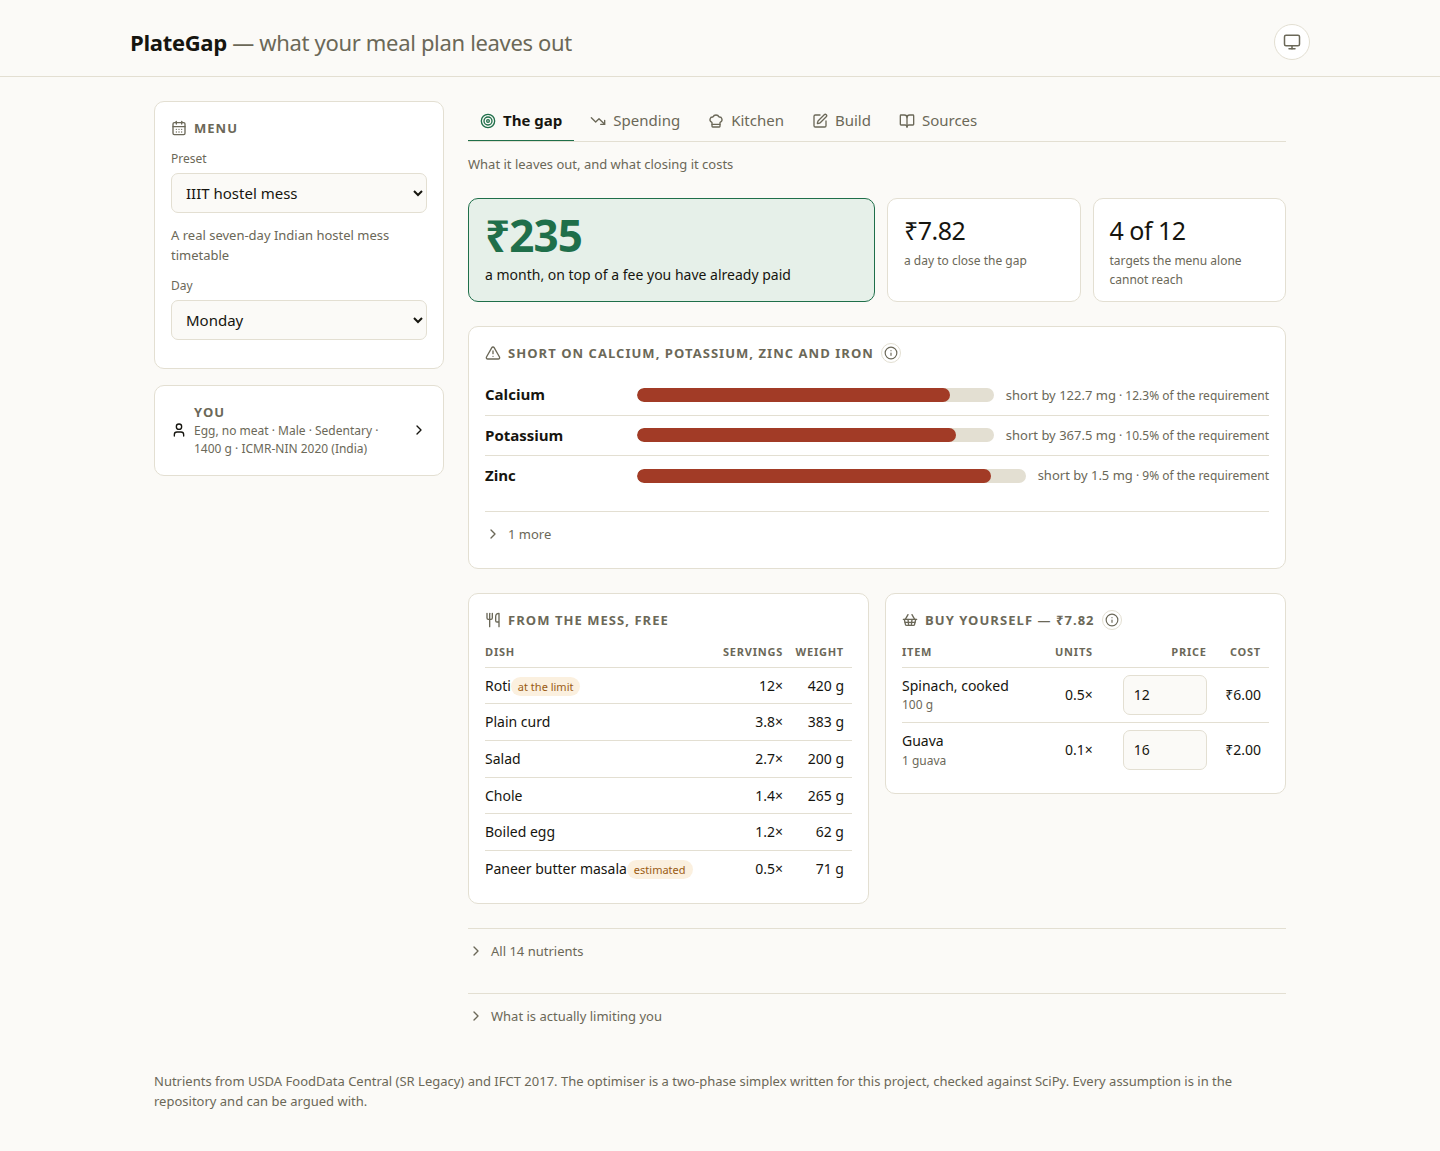
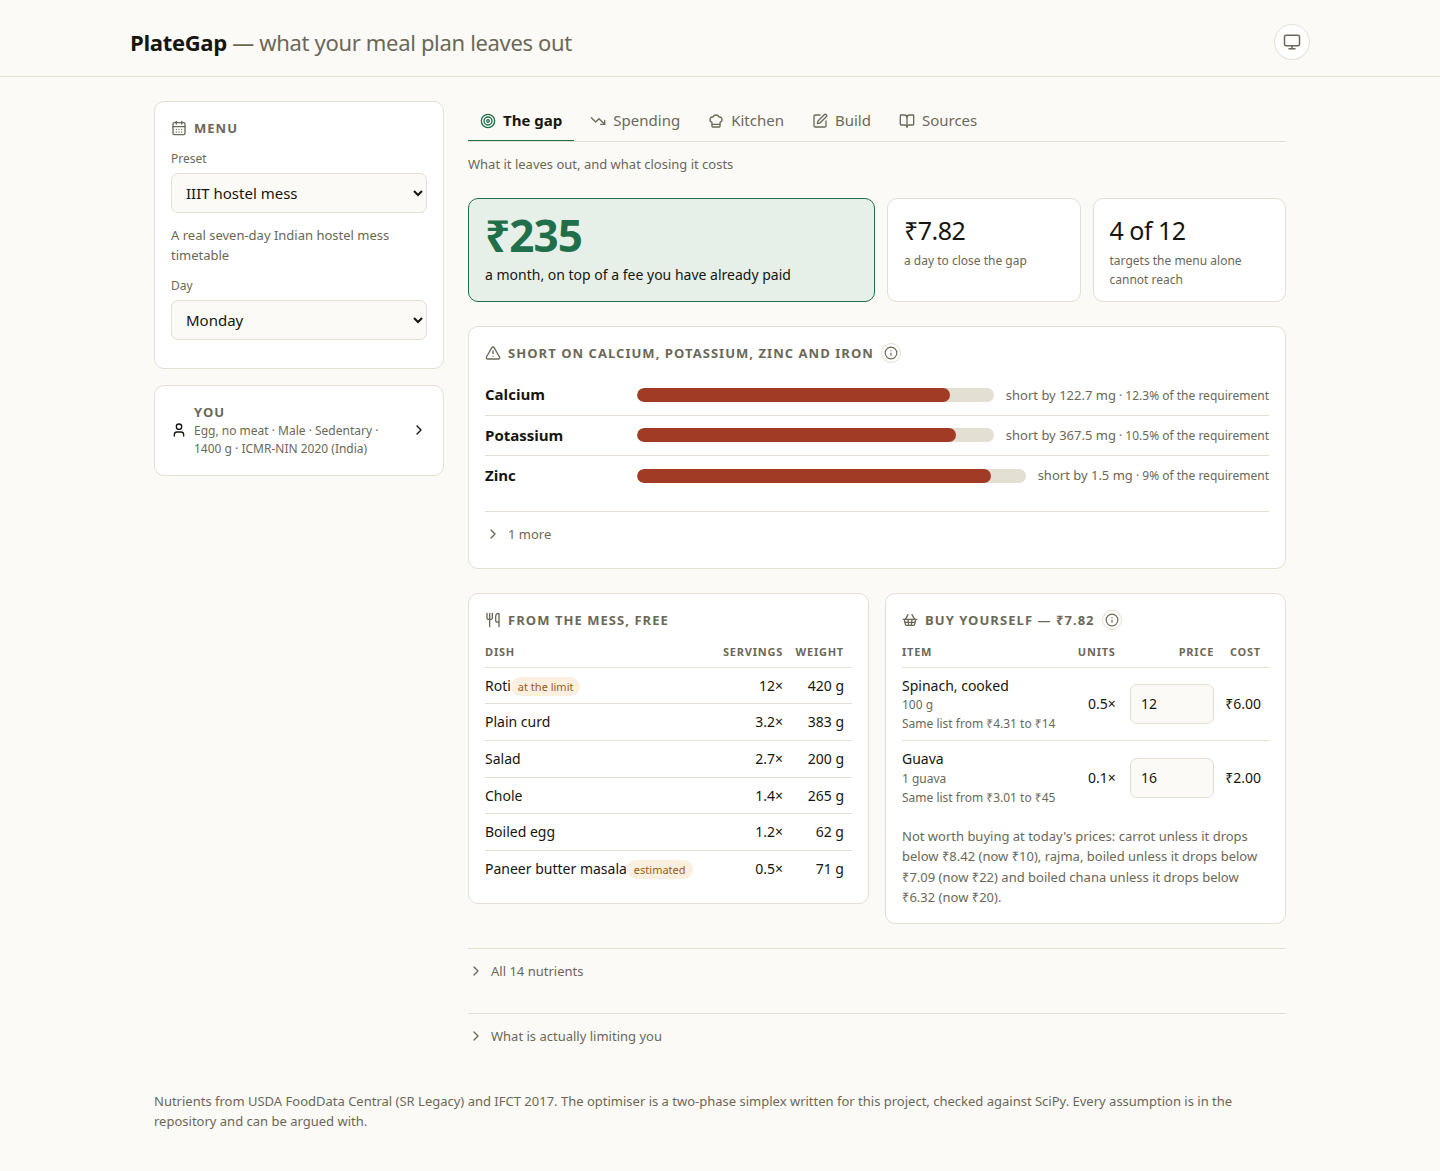
Re-shoot the demo screenshots from the deployed site
03 and 04 predated the katori serving-size change and the 14-menu
field study; both now match the live site. Drop the stale-screenshot
note from the demo README and tick off the matching TODO item.

diff --git a/docs/hackathon/demo/README.md b/docs/hackathon/demo/README.md
@@ -18,11 +18,6 @@ looked fine.
 | [06-us-dining-hall-audit.png](06-us-dining-hall-audit.png) | The dining-hall audit at 600 students: $19,835.57 a month, of which a black bean and rice bowl recovers $6,056.85. At the 3,000 students the write-up quotes, that is $99,177.86 and $30,284. Each recommendation shows what it costs in energy, saturated fat and sodium next to what it saves. |
 | [07-build-a-menu.png](07-build-a-menu.png) | The builder: start from a preset or from nothing, pick dishes per meal per day, and share the result as a link that carries the whole menu in the URL fragment. |
 
-**03 is out of date.** It was shot before servings were resized to the
-standard katori on 2026-09-21, and still shows the old audit (₹271,698 a month,
-mutter paneer first). The caption above gives what the live site shows now.
-Re-shoot before submitting.
-
 Re-shoot them with:
 
 ```bash

diff --git a/TODO.md b/TODO.md
@@ -11,7 +11,6 @@ done.
 
 ## Product
 
-- [ ] Re-shoot the demo screenshots: `03-the-menu-audit.png` predates the katori serving sizes and shows the old audit (see [docs/hackathon/demo/README.md](docs/hackathon/demo/README.md))
 - [ ] Decide whether a shared link should be able to carry prices as well as the menu
 - [ ] A scanned menu's corrections are lost on "Start over" — worth keeping the edited text around
 - [ ] Only the first page of a multi-page PDF menu is reliably read; a second page would need a second call
